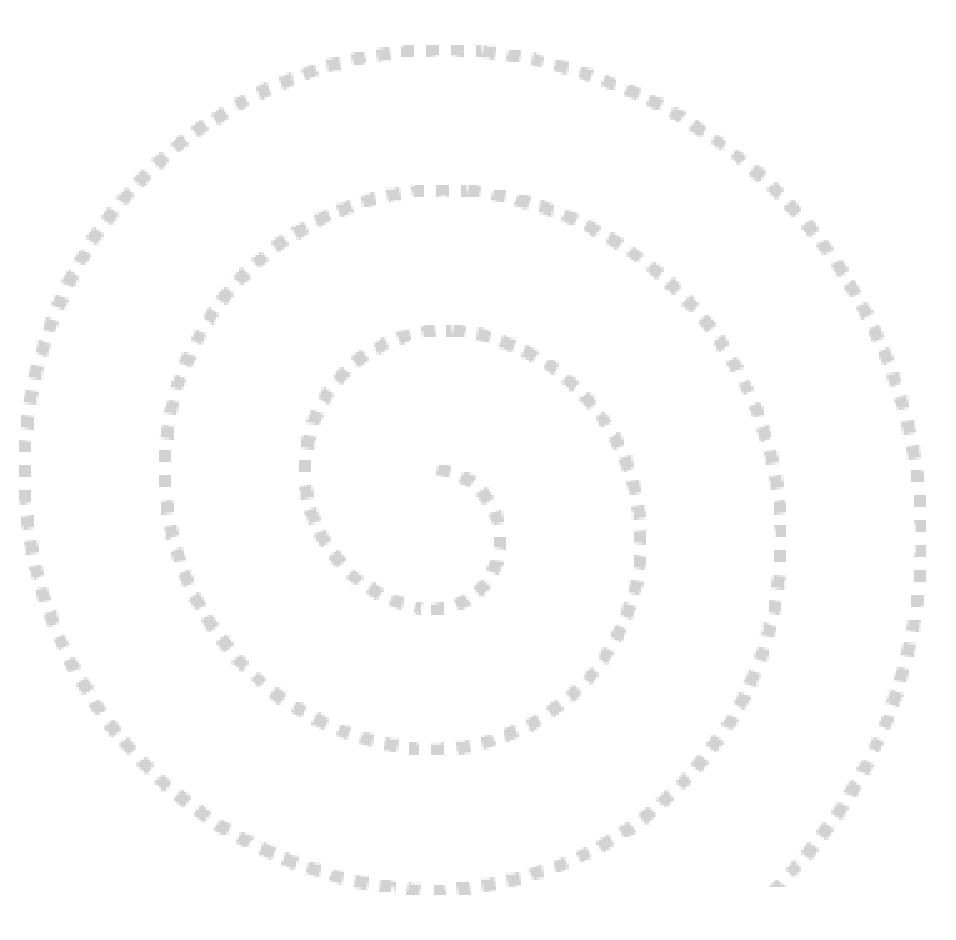
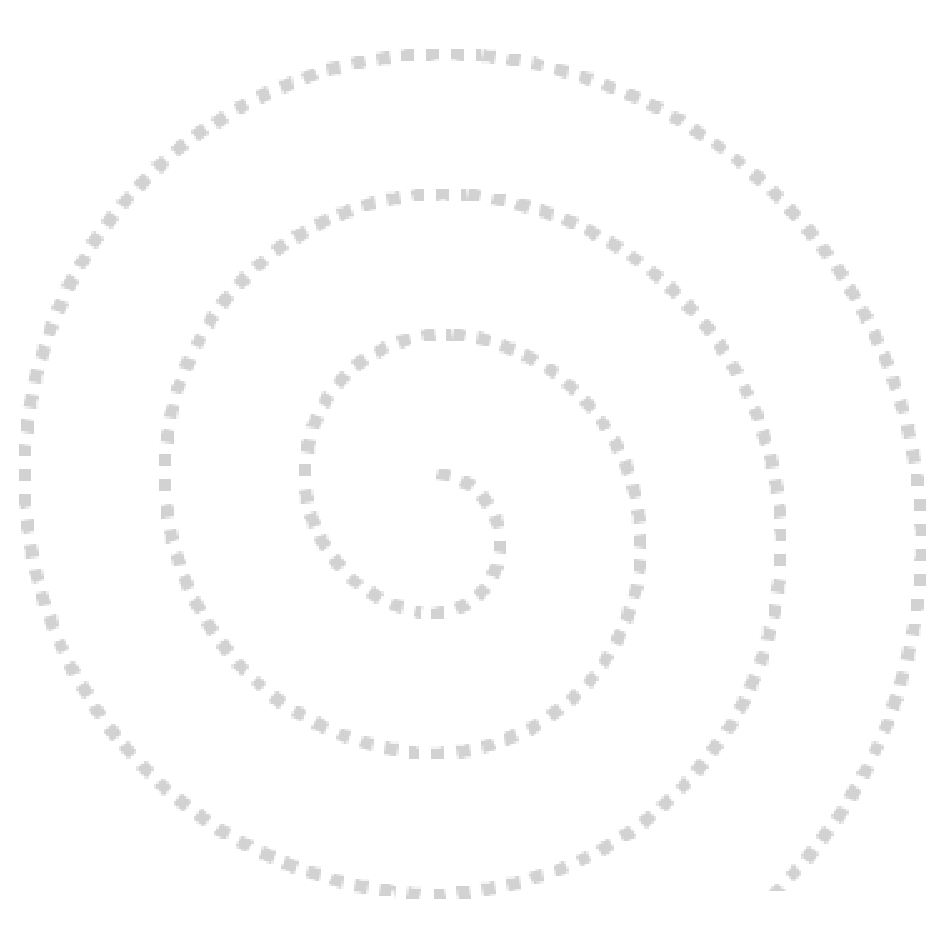
Calculating accuracy of spiral in draw.

diff --git a/website/templates/games_list.html b/website/templates/games_list.html
@@ -51,6 +51,8 @@
                   <br>
                   <p>Tempo de jogo: {{ game.timeSpent }} s</p>
                   <image class="draw" id ="draw" src="{{game.image}}"></image>
+                  <p>Resultado: {{ game.score }} {{ typeOfActions[game.gameTypeIndex - 1] }}</p>
+                  <p>Recorde: {{ recordAvailableGames[game.gameTypeIndex - 1] }} {{ typeOfActions[game.gameTypeIndex - 1] }}</p>
 
                 {% elif availableGames[game.gameTypeIndex - 1] == 'Equilíbrio' %}
                   <p>Jogo: {{ availableGames[game.gameTypeIndex - 1] }}</p>

diff --git a/website/functionHelpers.py b/website/functionHelpers.py
@@ -1,8 +1,13 @@
+from .models import Achievement
 import datetime
 from flask import session
 from flask_login import current_user
 from random import randint
 import re
+from math import sqrt, floor
+import base64
+from PIL import Image
+import os
 
 database_achievements = [
     {
@@ -334,3 +339,119 @@ def isUsernameValid(username):
         return False, 'Nome de utilizador não pode ter espaços.'
     else:
         return True, ''
+
+
+def check_game_achievements(gameTypeIndex):
+    # Jogador
+    achievement = Achievement.query.filter_by(patient_id=current_user.id, name='Jogador').all()
+    if achievement[0].locked == True:
+        achievement[0].locked = False
+
+    # First try games achievements
+    games_names = ['Reação', 'Rapidez', 'Memória', 'Desenho', 'Equilíbrio', 'Fala']
+    achievement = Achievement.query.filter_by(patient_id=current_user.id, name=games_names[gameTypeIndex-1]).all()
+    if achievement[0].locked == True:
+        achievement[0].locked = False
+
+    # Mestre
+    played_all_games = True
+    for game in games_names:
+        achievement = Achievement.query.filter_by(patient_id=current_user.id, name=game).all()
+        if achievement[0].locked == True:
+            played_all_games = False
+            break
+    achievement = Achievement.query.filter_by(patient_id=current_user.id, name='Mestre').all()
+    achievement[0].locked = not played_all_games
+
+def check_test_achievements(assessmentType):
+    # Test
+    achievement = Achievement.query.filter_by(patient_id=current_user.id, name='Teste').all()
+    if achievement[0].locked == True:
+        achievement[0].locked = False
+
+    # First try test achievements
+    test_names = ['Diagnóstico Parkinson', 'Tarefas do dia a dia']
+    test_index = test_names.index(assessmentType)
+    achievement_options = ['UPDRS', 'Tarefas']
+    achievement_name = achievement_options[test_index]
+    achievement = Achievement.query.filter_by(patient_id=current_user.id, name=achievement_name).all()
+    if achievement[0].locked == True:
+        achievement[0].locked = False
+
+def calculate_image_accuracy(image_data):
+    # get reference image
+    reference_image = Image.open('website/static/images/reference.png')
+    reference_pixels = reference_image.getdata()
+    reference_image_side = int(sqrt(len(reference_pixels)))
+
+    # get test image
+    image_saved_bytes = image_data
+    image_saved_bytes = image_saved_bytes.split(',')[1]
+    image_saved_bytes = bytes(image_saved_bytes, 'utf-8')
+
+    file_name = "website/static/images/image_test" + str(randint(0,1000000)) + '.png'
+    with open(file_name, "wb") as fh:
+        fh.write(base64.decodebytes(image_saved_bytes) + b'==')
+
+    image_test = Image.open(file_name)
+    image_test = image_test.resize((reference_image_side, reference_image_side))
+    test_pixels = image_test.getdata()
+    new_pixels = []
+    for i in range(0, len(test_pixels)):
+        if test_pixels[i] == (0, 0, 0, 0):
+            new_pixels.append((255, 255, 255, 255))
+        else:
+            new_pixels.append((0, 0, 0, 255))
+    image_test.putdata(new_pixels)
+    image_test.save(file_name)
+    image_test = Image.open(file_name)
+
+    # compare images
+    total_pixels_non0 = 0
+    correct_pixels = 0
+    for i in range(0, len(reference_pixels)):
+        if reference_pixels[i] != (255, 255, 255, 255) or test_pixels[i] != (255, 255, 255, 255): # if one of them is not white
+            total_pixels_non0 += 1
+            # check pixel in a 15 radius
+            if look_pixels_around(reference_pixels, reference_image_side, test_pixels, i):
+                correct_pixels += 1
+    
+    image_test.close()
+    os.remove(file_name)
+
+    return int(correct_pixels / total_pixels_non0 * 100) # percentage
+
+ # check pixel in a 5 pixel radius
+def look_pixels_around(reference_pixels, reference_image_side, test_pixels, i):
+    row = floor(i % reference_image_side)
+    column = i - reference_image_side * row
+    for x in range(row-5, row+5):
+        for y in range(column-5, column+5):
+            if x*reference_image_side+y < len(reference_pixels) and x*reference_image_side+y >= 0:
+                if reference_pixels[x*reference_image_side+y] != (255, 255, 255, 255) and test_pixels[x*reference_image_side+y] != (255, 255, 255, 255): # if they are both not white
+                    return True
+    return False
+
+    
+    # compare images
+    total_pixels_non0 = 0
+    correct_pixels = 0
+    for i in range(0, len(reference_pixels)):
+        if reference_pixels[i] != (255, 255, 255, 255) or test_pixels[i] != (255, 255, 255, 255): # if one of them is not white
+            total_pixels_non0 += 1
+            # check pixel in a 15 radius
+            if look_pixels_around(reference_pixels, reference_image_side, test_pixels, i):
+                correct_pixels += 1
+
+    return int(correct_pixels / total_pixels_non0 * 100) # percentage
+
+ # check pixel in a 5 pixel radius
+def look_pixels_around(reference_pixels, reference_image_side, test_pixels, i):
+    row = floor(i % reference_image_side)
+    column = i - reference_image_side * row
+    for x in range(row-3, row+3):
+        for y in range(column-3, column+3):
+            if x*reference_image_side+y < len(reference_pixels) and x*reference_image_side+y >= 0:
+                if reference_pixels[x*reference_image_side+y] != (255, 255, 255, 255) and test_pixels[x*reference_image_side+y] != (255, 255, 255, 255): # if they are both not white
+                    return True
+    return False

diff --git a/website/views.py b/website/views.py
@@ -1,10 +1,11 @@
 from datetime import datetime
-from flask import Blueprint, render_template, request, redirect, url_for, session, flash
+from flask import Blueprint, render_template, request, redirect, url_for, session
 from flask_login import current_user
-from .functionHelpers import checkIfUserComplete, manageSession, chooseGame, database_assessments, database_diseases, database_achievements
+from .functionHelpers import checkIfUserComplete, manageSession, chooseGame, database_assessments, database_diseases, check_game_achievements, check_test_achievements, calculate_image_accuracy
 from .models import Game, Question, Assessment, Achievement
 from . import db # import from website folder
 from random import randint
+
 
 views = Blueprint('views', __name__)
 
@@ -103,8 +104,8 @@ def home():
             elif (current_page == 'gamesList'):
                 gamesList = Game.query.filter_by(patient_id=current_user.id).all()
                 availableGames = ['Reação', 'Rapidez', 'Memória', 'Desenho', 'Equilíbrio', 'Audio']
-                typeOfActions = ['milissegundos', 'cliques', 'tentativas', '', 'pontos', '']
-                bestRecord = ['min', 'max', 'min', '', 'max', '']
+                typeOfActions = ['milissegundos', 'cliques', 'tentativas', '%', 'pontos', '']
+                bestRecord = ['min', 'max', 'min', 'max', 'max', '']
                 recordAvailableGames = []
                 for i in range(len(availableGames)):
                     tempGameList = Game.query.filter_by(patient_id=current_user.id, gameTypeIndex=i+1).all()
@@ -196,9 +197,11 @@ def play():
         if data_retrieved == False:
             if 'image' in request.json: # Image
                 image = request.json['image']
-                score = 0
                 gameTypeIndex = 4
                 timeSpent = request.json['timeSpent']
+                
+                score = calculate_image_accuracy(image) # calculate
+
                 data_retrieved = True
             else:
                 image = ''
@@ -211,7 +214,7 @@ def play():
         # Add game
         new_game = Game(patient_id=current_user.id, gameTypeIndex=gameTypeIndex, currentTime=datetime.now(), score=score, timeSpent=timeSpent, image=image, sound=audio)
         db.session.add(new_game)
-
+        
         # Add achievement
         check_game_achievements(gameTypeIndex)
 
@@ -299,43 +302,3 @@ def backToMain():
     session['page'] = 'main_menu'
     return redirect(url_for('views.home'))
 
-def check_game_achievements(gameTypeIndex):
-    # Jogador
-    achievement = Achievement.query.filter_by(patient_id=current_user.id, name='Jogador').all()
-    if achievement[0].locked == True:
-        achievement[0].locked = False
-
-    # First try games achievements
-    games_names = ['Reação', 'Rapidez', 'Memória', 'Desenho', 'Equilíbrio', 'Fala']
-    achievement = Achievement.query.filter_by(patient_id=current_user.id, name=games_names[gameTypeIndex-1]).all()
-    if achievement[0].locked == True:
-        achievement[0].locked = False
-
-    # Mestre
-    played_all_games = True
-    for game in games_names:
-        achievement = Achievement.query.filter_by(patient_id=current_user.id, name=game).all()
-        if achievement[0].locked == True:
-            played_all_games = False
-            break
-    achievement = Achievement.query.filter_by(patient_id=current_user.id, name='Mestre').all()
-    achievement[0].locked = not played_all_games
-
-def check_test_achievements(assessmentType):
-    # Test
-    achievement = Achievement.query.filter_by(patient_id=current_user.id, name='Teste').all()
-    if achievement[0].locked == True:
-        achievement[0].locked = False
-
-    # First try test achievements
-    test_names = ['Diagnóstico Parkinson', 'Tarefas do dia a dia']
-    test_index = test_names.index(assessmentType)
-    achievement_options = ['UPDRS', 'Tarefas']
-    achievement_name = achievement_options[test_index]
-    achievement = Achievement.query.filter_by(patient_id=current_user.id, name=achievement_name).all()
-    if achievement[0].locked == True:
-        achievement[0].locked = False
-            
-#@views.route('/test')
-#def test():
-#    return {'ola':'adeus'}
